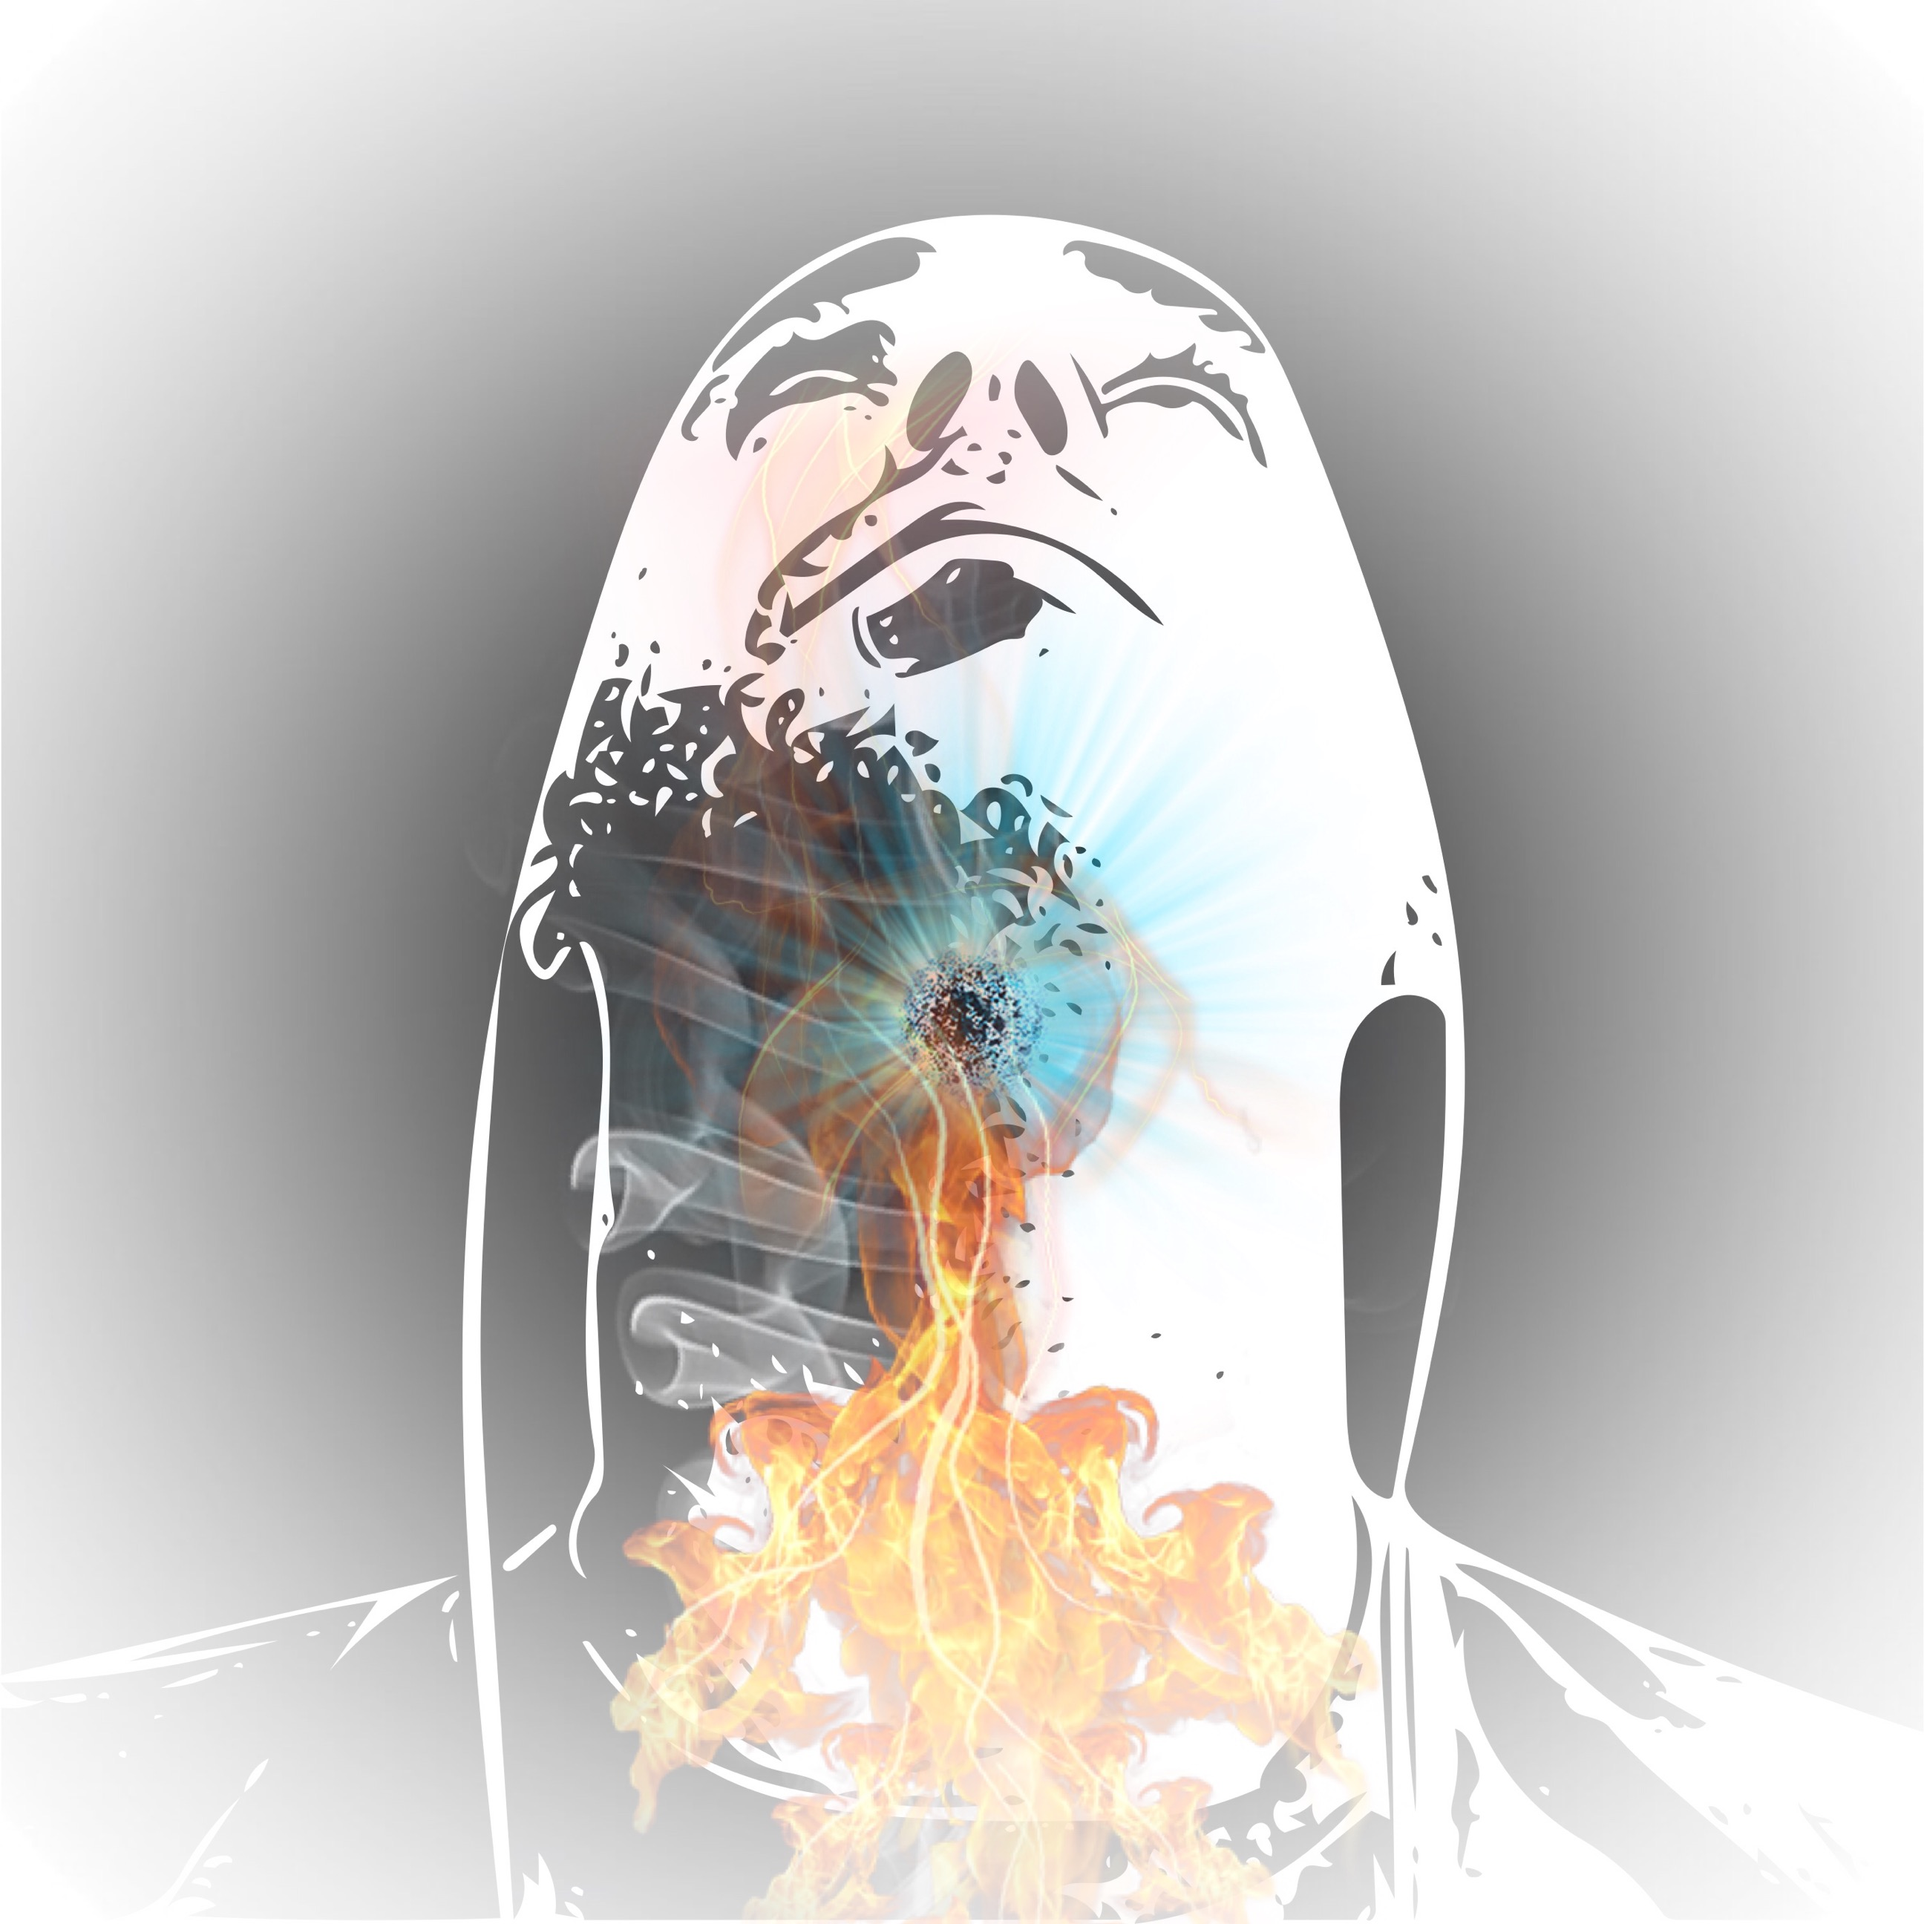
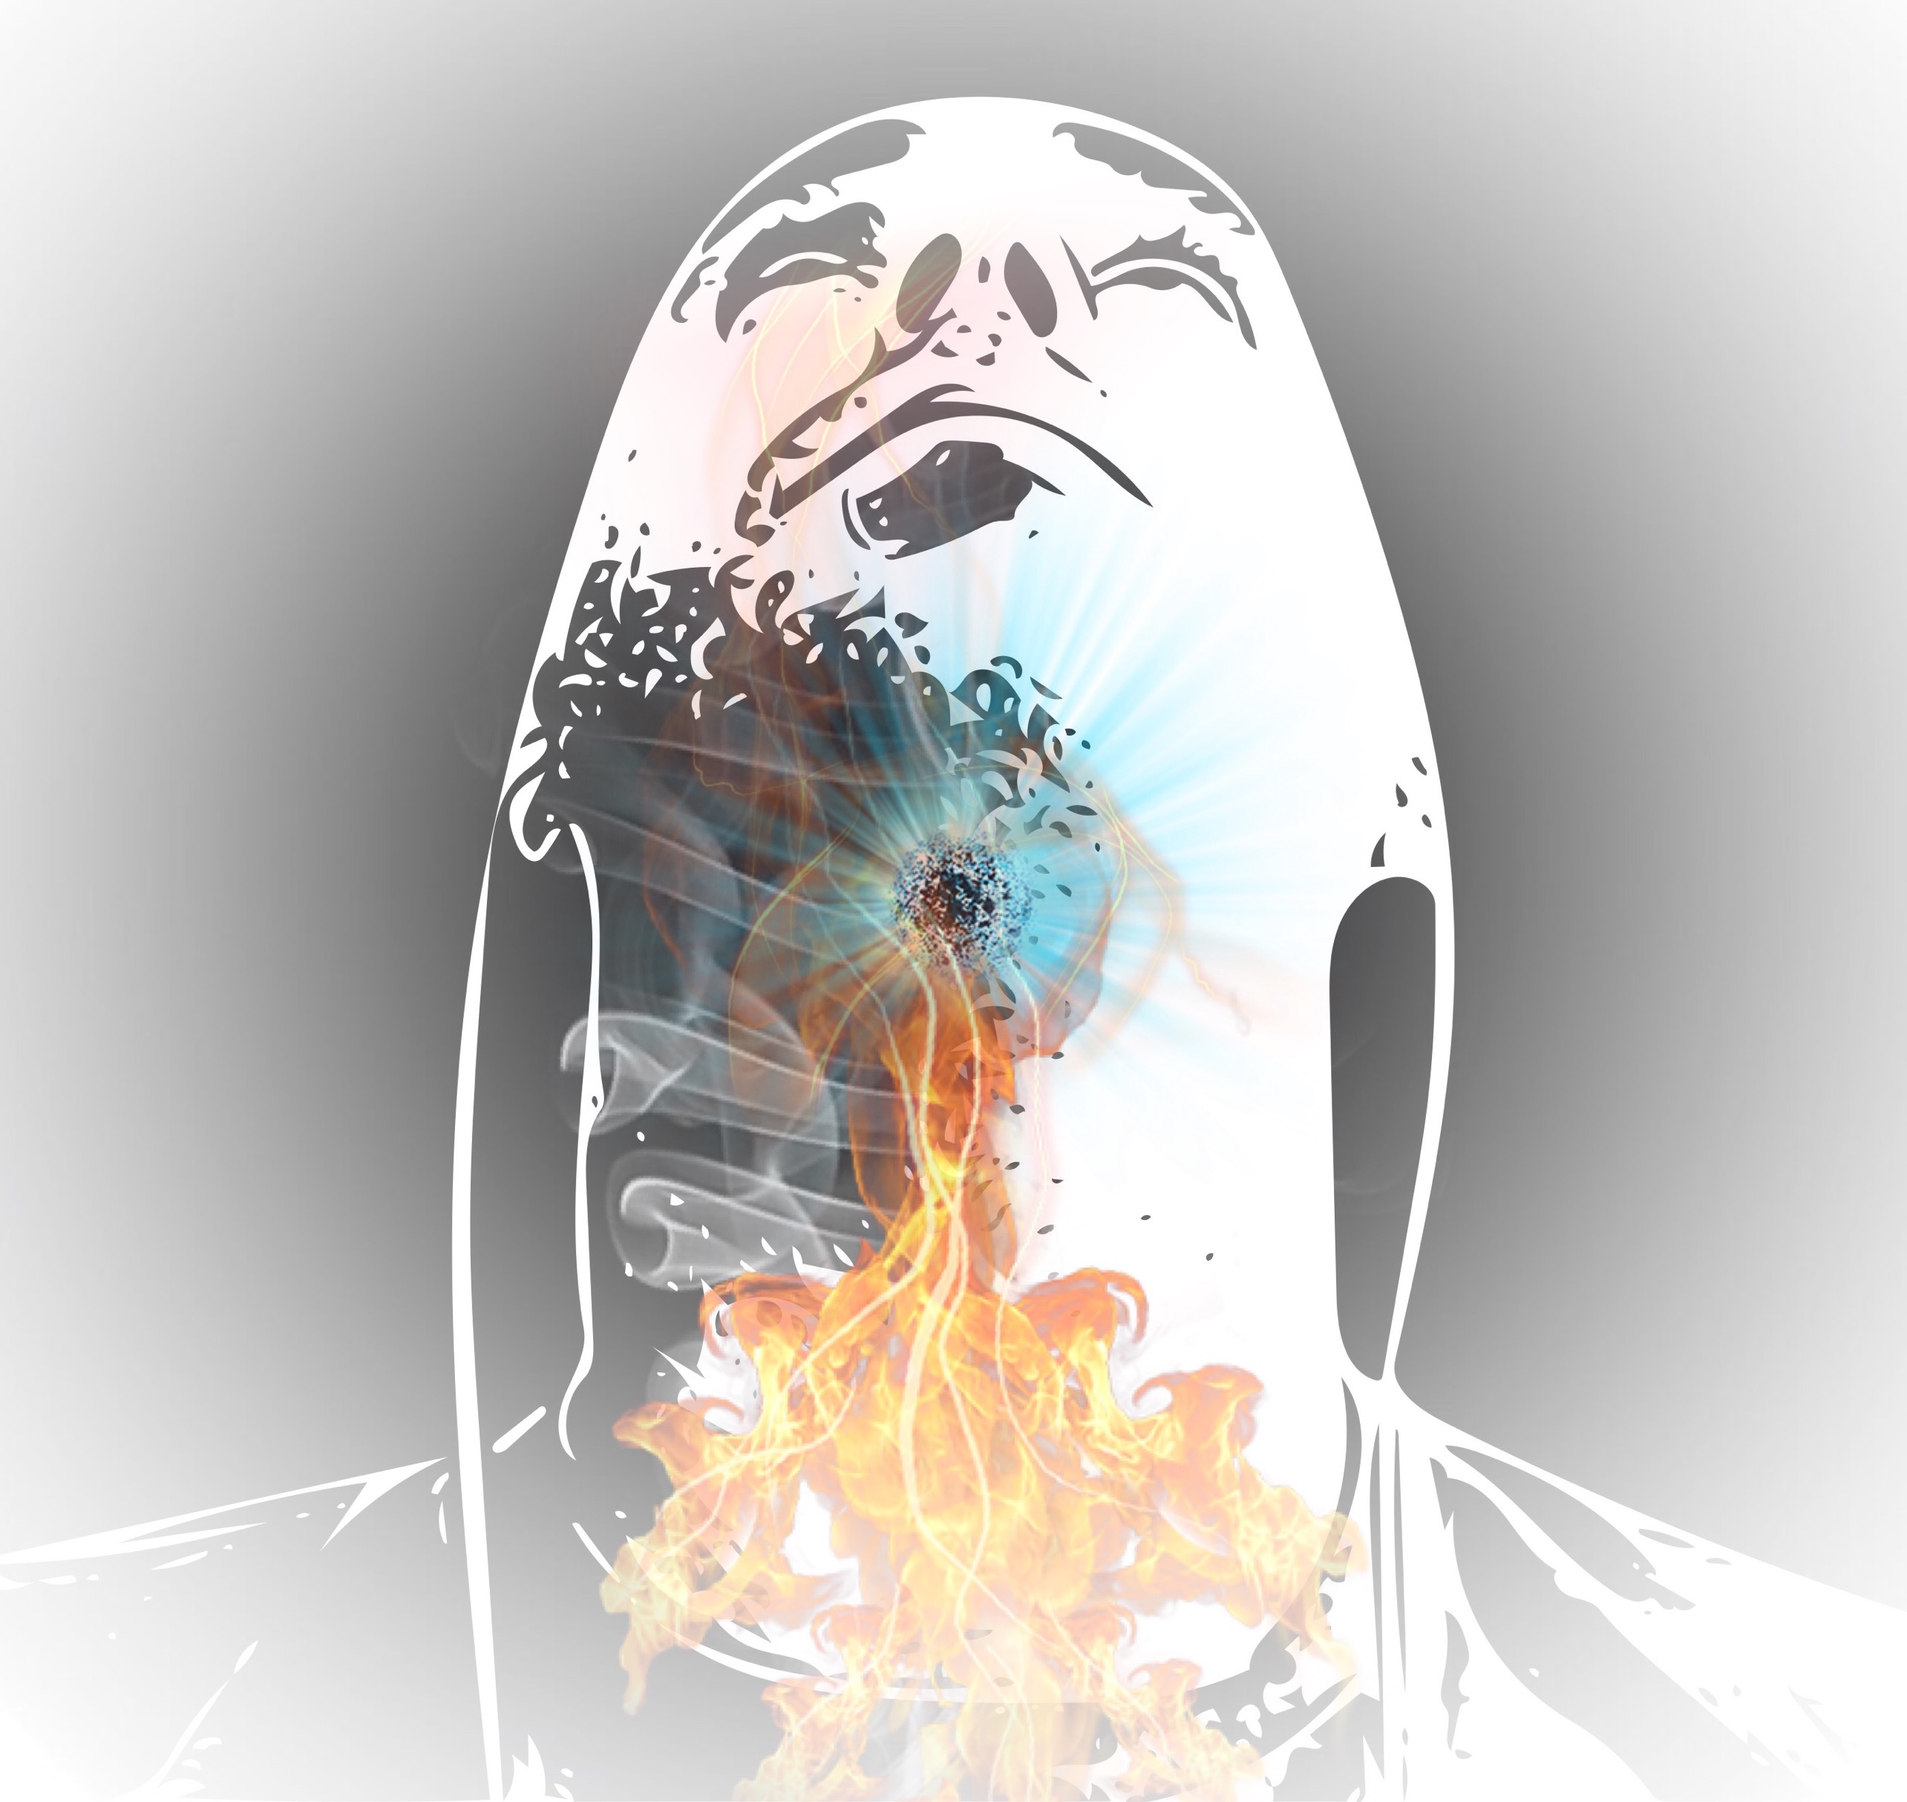
Removed tables, added height to div in css, cropped image

diff --git a/css/custom.css b/css/custom.css
@@ -43,6 +43,10 @@ table {
 	background-color: #480000;
 }
 
+.deadspace {
+	height: 700px;
+}
+
 .navbar {
 	border-width: 0 0 1px;
 	right: 0;
@@ -88,7 +92,9 @@ table {
 .imgdiv {
 	background-image: url('../images/Sadpass/imgdiv.jpg');
 	background-size: cover;
-	height: 1000px;
+	background-attachment: relative;
+	background-position: -20px 0px 0px 0px;
+	height: 800px;
 }
 
 /* background image copy pasta */ 

diff --git a/index.html b/index.html
@@ -58,7 +58,7 @@
     <div class="jumbotron">
       <div class="container" padding-top="150px">
         <div class="deadspace">
-          <table> <!-- This will be dead space /--> </table>
+          
         </div>
       
         
@@ -116,7 +116,7 @@
 
     <div>
       <div class="imgdiv">
-        <div><table></table>
+        <div>
         </div>
       </div>
     </div>
